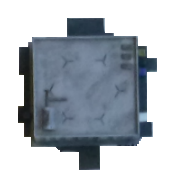
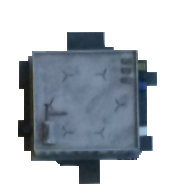
Fix JS error when trying to autoselect item where the first drawPath is skipped

diff --git a/menuItem.js b/menuItem.js
@@ -86,7 +86,7 @@ function initMenu() {
 		{ quantity: 1, name: "Tower block", item: window.drawableFactory.newDrawableMultiple("buildingTwo", [ { draw: window.drawFuncs.heightThreeBuilding }, { move: "s", draw: window.drawFuncs.heightThreeBuilding }, ]) },
 		{ quantity: 1, name: "Tower block", item: window.drawableFactory.newDrawableMultiple("buildingThree", [ { draw: window.drawFuncs.heightThreeBuilding }, { move: "s", draw: window.drawFuncs.heightThreeBuilding }, { move: "s", draw: window.drawFuncs.heightThreeBuilding }, { move: "ne", draw: window.drawFuncs.heightThreeBuilding }, { move: "n", draw: window.drawFuncs.heightThreeBuilding }, ]) },
 		{ quantity: 1, name: "Tower block", item: window.drawableFactory.newDrawableMultiple("buildingFour", [ { move: "s", draw: window.drawFuncs.heightThreeBuilding }, { move: "s", draw: window.drawFuncs.heightThreeBuilding }, { move: "se", draw: window.drawFuncs.heightThreeBuilding }, { move: "n", draw: window.drawFuncs.heightThreeBuilding }, { move: "n", draw: window.drawFuncs.heightThreeBuilding }, { move: "se", draw: window.drawFuncs.heightThreeBuilding }, { move: "s", draw: window.drawFuncs.heightThreeBuilding }, ]) },
-		{ quantity: 1, name: "Tower block", item: window.drawableFactory.newDrawableMultiple("buildingFive", [ { move: "s", draw: window.drawFuncs.heightTwoBuilding }, { move: "s", draw: window.drawFuncs.heightTwoBuilding }, { move: "se", draw: window.drawFuncs.heightTwoBuilding }, { move: "n", draw: window.drawFuncs.heightTwoBuilding }, { move: "n", draw: window.drawFuncs.heightTwoBuilding }, { move: "se", draw: window.drawFuncs.heightTwoBuilding }, { move: "s", draw: window.drawFuncs.heightTwoBuilding }, ]) },
+		{ quantity: 1, name: "Tower block", item: window.drawableFactory.newDrawableMultiple("buildingFive", [ { move: "s", draw: window.drawFuncs.heightTwoBuilding }, { move: "s", draw: window.drawFuncs.heightTwoBuilding }, { move: "se", draw: window.drawFuncs.heightTwoBuilding }, { move: "n", draw: window.drawFuncs.heightTwoBuilding }, { move: "n", draw: window.drawFuncs.heightTwoBuilding }, { move: "se", draw: window.drawFuncs.heightTwoBuilding }, { move: "s", draw: window.drawFuncs.heightTwoBuilding }, ], window.drawFuncsSatelite.buildingFive) },
 		{ quantity: 1, name: "Mech bay", item: window.drawableFactory.newDrawableMultiple("mechBay", [ { draw: window.drawFuncs.heightFourBuilding }, { move: "s", draw: window.drawFuncs.heightFourBuilding }, { move: "s", draw: window.drawFuncs.heightFourBuilding }, { move: "s", draw: window.drawFuncs.heightZeroBuilding }, { move: "s", draw: window.drawFuncs.heightFourBuilding }, { move: "se", draw: window.drawFuncs.heightFourBuilding }, { move: "n", draw: window.drawFuncs.heightFourBuilding }, { move: "n", draw: window.drawFuncs.heightFourBuilding }, { move: "n", draw: window.drawFuncs.heightFourBuilding }, { move: "n", draw: window.drawFuncs.heightFourBuilding }, ]) },
 		{ quantity: 1, name: "Factory", item: window.drawableFactory.newDrawableMultiple("factoryOne", [ { draw: window.drawFuncs.heightTwoBuilding }, { move: "s", draw: window.drawFuncs.heightTwoBuilding }, { move: "s", draw: window.drawFuncs.heightTwoBuilding }, { move: "s", draw: window.drawFuncs.heightTwoBuilding }, { move: "s", draw: window.drawFuncs.heightTwoBuilding }, { move: "ne", draw: window.drawFuncs.heightOneBuilding }, { move: "n", draw: window.drawFuncs.heightOneBuilding }, { move: "n", draw: window.drawFuncs.heightOneBuilding }, { move: "n", draw: window.drawFuncs.heightOneBuilding }, { move: "ne", draw: window.drawFuncs.heightOneBuilding }, { move: "s", draw: window.drawFuncs.heightOneBuilding }, { move: "s", draw: window.drawFuncs.heightOneBuilding }, { move: "s", draw: window.drawFuncs.heightOneBuilding }, { move: "s", draw: window.drawFuncs.heightOneBuilding }, ]) },
 		{ quantity: 1, name: "Factory", item: window.drawableFactory.newDrawableMultiple("factoryTwo", [ { draw: window.drawFuncs.heightTwoBuilding }, { move: "s", draw: window.drawFuncs.heightTwoBuilding }, { move: "s", draw: window.drawFuncs.heightTwoBuilding }, { move: "s", draw: window.drawFuncs.heightTwoBuilding }, { move: "ne", draw: window.drawFuncs.heightTwoBuilding }, { move: "n", draw: window.drawFuncs.heightTwoBuilding }, { move: "n", draw: window.drawFuncs.heightTwoBuilding }, ]) },

diff --git a/dragDrop.js b/dragDrop.js
@@ -73,9 +73,21 @@ function canvasDrop(ev) {
 
 	var coordinates = grid.getGridIndexFormPixelLocation({ px: clickX, py: clickY });
 	grid.addItem(coordinates, "n", menuItems[data.menuId].item, { id: data.menuId });
-
+	console.log(menuItems[data.menuId].item);
 	if (document.getElementById("autoSelectItem").checked) {
-		var item = grid.getItemAt(coordinates);
+		var selectableItemCoOrdinates = coordinates
+		var itemDrawPath = menuItems[data.menuId].item.drawPath;
+
+		for (var itemDrawIndex = 0; itemDrawIndex < itemDrawPath.length; itemDrawIndex = itemDrawIndex + 1) {
+			if (itemDrawPath[itemDrawIndex].move != undefined || itemDrawPath[itemDrawIndex].draw == undefined) {
+				selectableItemCoOrdinates = window.gridCompas.getNeghbouringGridIndex(selectableItemCoOrdinates, itemDrawPath[itemDrawIndex].move);
+			}
+			else {
+				break;
+			}
+		}
+
+		var item = grid.getItemAt(selectableItemCoOrdinates);
 		item.state = window.gridItemState.selected;
 		selectedItem = item;
 

diff --git a/drawFuncsSatelite.js b/drawFuncsSatelite.js
@@ -21,6 +21,10 @@ window.drawFuncsSatelite = {
 	barracks: function(context, pixelLocationTopLeft, pixelLocationCentre, scale, rotation, state, itemArgs) {
 		window.drawFuncsSatelite._drawImage(context, pixelLocationTopLeft, pixelLocationCentre, window.drawFuncsSatelite._itemScale, rotation, window.sateliteImages.barracks);
 	},
+
+	buildingFive: function(context, pixelLocationTopLeft, pixelLocationCentre, scale, rotation, state, itemArgs) {
+		window.drawFuncsSatelite._drawImage(context, pixelLocationTopLeft, pixelLocationCentre, window.drawFuncsSatelite._itemScale, rotation, window.sateliteImages.buildingFive);
+	},
 	
 	radarStation: function(context, pixelLocationTopLeft, pixelLocationCentre, scale, rotation, state, itemArgs) {
 		window.drawFuncsSatelite._drawImage(context, pixelLocationTopLeft, pixelLocationCentre, window.drawFuncsSatelite._itemScale, rotation, window.sateliteImages.radarStation);

diff --git a/sateliteImages.js b/sateliteImages.js
@@ -15,7 +15,7 @@ window.sateliteImages = {
 	buildingTwo: null,
 	buildingThree: null,
 	buildingFour: null,
-	buildingFive: null,
+	buildingFive: $('<img src="file:///C:/Users/Will/Documents/Work/Git/hexMapEditor/sceneryImages/buildingFivePng.png" />')[0],
 	mechBay: null,
 	FactoryOne: null,
 	factoryTwo: null,
